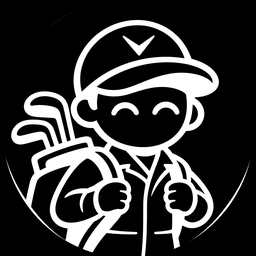
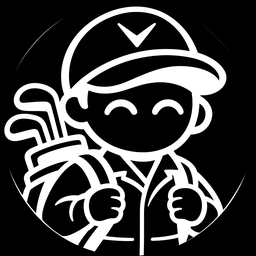
Add files via upload

diff --git a/js/strategy.js b/js/strategy.js
@@ -55,7 +55,7 @@ export function strategyOf(recs, par, geo = {}) {
   // (a hull of a few shots along a strip was a thin sliver); drawn as its outline's points
   // (update 631) round most of the shots (the nearest 85% to their middle), 1.5 yds beyond them, and no wider than it
   // needs to be (at least 0.4 as wide as long): a wide oval spilled into the fairway or rough beside a patch
-  const hullOf = (pts0) => {
+  const hullOf = (pts0, lim = null) => {
     if (!pts0 || pts0.length < 3) return null;
     let pts = pts0; { const cx = mean(pts.map((p) => p[0])), cy = mean(pts.map((p) => p[1])); if (pts.length >= 6) pts = [...pts].sort((p, q) => Math.hypot(p[0] - cx, p[1] - cy) - Math.hypot(q[0] - cx, q[1] - cy)).slice(0, Math.ceil(pts.length * 0.85)); }
     const mx = mean(pts.map((p) => p[0])), my = mean(pts.map((p) => p[1]));
@@ -64,14 +64,17 @@ export function strategyOf(recs, par, geo = {}) {
     let a = Math.max(...pts.map(([x, y]) => Math.abs((x - mx) * ux + (y - my) * uy))) + pad;
     let b = Math.max(...pts.map(([x, y]) => Math.abs((x - mx) * vx + (y - my) * vy))) + pad;
     a = Math.max(a, 5 * PPY); b = Math.max(b, 0.4 * a, 4 * PPY);
+    // (update 655) a tee target (aim, avoid): its radius, either way, between 8 and 15 yds
+    if (lim) { const lo = lim[0] * PPY, hi = lim[1] * PPY; a = Math.min(hi, Math.max(lo, a)); b = Math.min(hi, Math.max(lo, b)); }
     return Array.from({ length: 20 }, (_, k) => { const t = (k / 20) * 2 * Math.PI, ca = Math.cos(t) * a, sb = Math.sin(t) * b; return [Math.round(mx + ca * ux + sb * vx), Math.round(my + ca * uy + sb * vy)]; });
   };
-  const circ = (rs, ptOf, tone) => {
+  const TEE_LIM = [8, 15]; // (update 655: tee targets; 656: the approach miss spots too)
+  const circ = (rs, ptOf, tone, lim = null) => {
     const ps = rs.map(ptOf).filter((q) => q && q[1] != null && q[2] != null); if (ps.length < 3) return null;
     const cx = mean(ps.map((q) => q[1])), cy = mean(ps.map((q) => q[2])), ds = ps.map((q) => Math.hypot(q[1] - cx, q[2] - cy)).sort((a, b) => a - b);
-    const r = Math.max(6 * PPY, Math.min(30 * PPY, ds[Math.floor(0.7 * (ds.length - 1))] || 0));
+    const r = Math.max((lim ? lim[0] : 6) * PPY, Math.min((lim ? lim[1] : 30) * PPY, ds[Math.floor(0.7 * (ds.length - 1))] || 0));
     const inner = ps.filter((q) => Math.hypot(q[1] - cx, q[2] - cy) <= r).map((q) => [q[1], q[2]]); // (most of them: the outliers left out)
-    const h = hullOf(inner);
+    const h = hullOf(inner, lim);
     return h ? [Math.round(cx), Math.round(cy), Math.round(r), tone, h] : [Math.round(cx), Math.round(cy), Math.round(r), tone];
   };
   const apPt = (r) => (r.apIdx != null ? r.qs[r.apIdx + 1] : null);
@@ -98,7 +101,7 @@ export function strategyOf(recs, par, geo = {}) {
     const zones = group(drives.map((d) => ({ ...d.r, _d: d })), (r) => zoneOf(r._d)).sort((a, b) => a.avg - b.avg);
     { const m = new Map();
       for (const d of drives) { const z = zoneOf(d); if (!z || !/fairway$/.test(z) || /bunkers$/.test(z)) continue; const L = Math.round(len(d) / 20) * 20, k = `${z}|${L}`; (m.get(k) || m.set(k, []).get(k)).push(d); }
-      teeOpts = [...m].filter(([, ds]) => ds.length >= OPT_N).map(([k, ds]) => { const [z, L] = k.split("|"); return { z, len: Number(L), n: ds.length, avg: Math.round(mean(ds.map((d) => sc(d.r))) * 1000) / 1000, left: med(ds.map((d) => d.q2[4])), at: circ(ds, (d) => d.q2, "good") }; });
+      teeOpts = [...m].filter(([, ds]) => ds.length >= OPT_N).map(([k, ds]) => { const [z, L] = k.split("|"); return { z, len: Number(L), n: ds.length, avg: Math.round(mean(ds.map((d) => sc(d.r))) * 1000) / 1000, left: med(ds.map((d) => d.q2[4])), at: circ(ds, (d) => d.q2, "good", TEE_LIM) }; });
       if (!teeOpts.length) teeOpts = null; }
     const isFw = (z) => /fairway$/.test(z.k) && !/bunkers$/.test(z.k);
     const tgt = zones.filter(isFw)[0];
@@ -108,12 +111,12 @@ export function strategyOf(recs, par, geo = {}) {
       const bb = bands.length >= 2 && bands[0].avg < tgt.avg ? bands[0] : null;
       // (update 595) just the value of what's recommended (the spot was still picked against every other place)
       const g0 = bb || tgt;
-      items.push({ k: "tee", h: "Aim", t: `Aim for ${tgt.k}${bb ? ` around ${bb.k} yds` : ""} off the tee ${vn(g0.avg, g0.n)}.`, at: [circ(g0.rs, (r) => r._d.q2, "good")].filter(Boolean) });
+      items.push({ k: "tee", h: "Aim", t: `Aim for ${tgt.k}${bb ? ` around ${bb.k} yds` : ""} off the tee ${vn(g0.avg, g0.n)}.`, at: [circ(g0.rs, (r) => r._d.q2, "good", TEE_LIM)].filter(Boolean) });
       for (const z of zones.filter((z) => !isFw(z) && z.avg <= tgt.avg - 0.05).slice(0, 1))
         items.push({ k: "tee", h: "Surprise", t: `Drives finishing in ${z.k} have scored better than the aim ${vn(z.avg, z.n)}.` });
     }
     const worst = zones.at(-1), best = zones[0];
-    if (worst && worst !== tgt && zones.length >= 2 && worst.avg >= best.avg + 0.1) items.push({ k: "tee", h: "Avoid", t: `Stay out of ${worst.k} off the tee ${vn(worst.avg, worst.n)}.`, at: [circ(worst.rs, (r) => r._d.q2, "bad")].filter(Boolean) });
+    if (worst && worst !== tgt && zones.length >= 2 && worst.avg >= best.avg + 0.1) items.push({ k: "tee", h: "Avoid", t: `Stay out of ${worst.k} off the tee ${vn(worst.avg, worst.n)}.`, at: [circ(worst.rs, (r) => r._d.q2, "bad", TEE_LIM)].filter(Boolean) });
   }
 
   // ---- the approach: every result (the green, and each miss's side and lie within 30 yds) against every other ----
@@ -139,6 +142,7 @@ export function strategyOf(recs, par, geo = {}) {
     // (update 617) each spot is a cluster's centre found by moving a circle to the middle of its misses until it stops
     // (the densest place), and judged on every miss of that lie inside it: whole bunkers and patches of rough, not the
     // best- or worst-scoring slice of one (that made a left bunker look worse than a right one that really was worse)
+    let allMiss = missPts.slice();
     const gen = (minN, radii) => {
       const out = [], seen = new Set();
       for (const c of missPts) for (const ry of radii) {
@@ -156,11 +160,17 @@ export function strategyOf(recs, par, geo = {}) {
             for (let i = 0; i < part.length; i++) for (const q of [...left]) if (Math.hypot(q.x - part[i].x, q.y - part[i].y) <= L) { part.push(q); left.delete(q); }
             parts.push(part); }
           mem = parts.sort((a, b) => b.length - a.length)[0]; x = mean(mem.map((p) => p.x)); y = mean(mem.map((p) => p.y)); }
+        // (update 657) the spot IS the circle drawn: its middle where the search settled, its radius the circle's (8 to
+        // 15 yds), and every miss inside it counted, whatever its side (the search above only finds where to put it)
+        mem = allMiss.filter((p) => Math.hypot(p.x - x, p.y - y) <= rr);
+        // (update 658) only the lie in its name: the circle's most common lie (a couple of rough misses in a bunker spot
+        // don't count toward "in a bunker")
+        if (mem.length) { const lc = new Map(); for (const p of mem) lc.set(p.lie, (lc.get(p.lie) || 0) + 1); const top = [...lc].sort((a, b) => b[1] - a[1])[0][0]; mem = mem.filter((p) => p.lie === top); }
         if (mem.length < minN) continue;
         // (update 625) every circle size (not just the first that's big enough), so a tight cluster (the rough left of a
         // green) is a spot of its own rather than swallowed by a bigger one nearby
         const sig = `${c.lie}|${ry}|${Math.round(x / (3 * geo.ppy))}|${Math.round(y / (3 * geo.ppy))}`;
-        if (!seen.has(sig)) { seen.add(sig); out.push({ ry, mem, avg: mean(mem.map((p) => sc(p.r))) }); }
+        if (!seen.has(sig)) { seen.add(sig); out.push({ ry, x, y, mem, avg: mean(mem.map((p) => sc(p.r))) }); }
       }
       return out;
     };
@@ -175,8 +185,9 @@ export function strategyOf(recs, par, geo = {}) {
       for (const p of all) { if ((p.lie !== "rough" && p.lie !== "fairway") || !p.r.bb) continue;
         const nb = all.filter((q) => q !== p && Math.hypot(q.x - p.x, q.y - p.y) <= R);
         if ((nb.length >= 4 && nb.filter((q) => q.lie === "bunker").length / nb.length >= 0.4) || all.some((q) => q.lie === "bunker" && Math.hypot(q.x - p.x, q.y - p.y) <= 2 * geo.ppy)) p.lucky = true; } // (or a bunker miss within 2 yds)
+      allMiss = missPts.slice(); // (update 657: counted in any circle they're inside, just not used to place one)
       for (let i = missPts.length - 1; i >= 0; i--) if (missPts[i].lucky) missPts.splice(i, 1); }
-    const cand = gen(MIN_N, [8, 12, 15, 20]);
+    const cand = gen(MIN_N, [8, 10, 12, 15]); // (update 657: 8 to 15 yds, the sizes a spot can be drawn)
     // its direction: the one most of its misses are in; when none has half, the part nearly all share ("Long" for misses
     // spread over long-left, long and long-right)
     const sideOf = (mem) => {
@@ -187,14 +198,16 @@ export function strategyOf(recs, par, geo = {}) {
       const [pw, pn] = [...part].sort((a, b) => b[1] - a[1])[0];
       return pn >= mem.length * 0.7 ? pw : top;
     };
-    const nameAll = (cs) => cs.map((g) => ({ ...g, k: `${sideOf(g.mem)}|${g.mem[0].lie}`, n: g.mem.length, cx: mean(g.mem.map((p) => p.x)), cy: mean(g.mem.map((p) => p.y)) }));
+    // (update 657) named by the lie most of its misses are in; centred where the circle is drawn
+    const lieMost = (mem) => { const m = new Map(); for (const p of mem) m.set(p.lie, (m.get(p.lie) || 0) + 1); return [...m].sort((a, b) => b[1] - a[1])[0][0]; };
+    const nameAll = (cs) => cs.map((g) => ({ ...g, k: `${sideOf(g.mem)}|${lieMost(g.mem)}`, n: g.mem.length, cx: g.x, cy: g.y }));
     const named = nameAll(cand);
     const apart = (a, b) => { const s0 = new Set(a.mem.map((p) => p.r)); return a.k !== b.k && b.mem.filter((p) => s0.has(p.r)).length < 0.5 * Math.min(a.n, b.n); };
     // (update 618) a place to aim has to be safe to aim at: not a sliver of rough or fairway beside a bunker that only
     // scored well by luck. Within 6 yds of a spot's middle, if a quarter or more of all the misses (any lie) are in a
     // bunker, it can't be the best or second best miss (it can still be the worst)
     const risky = (g) => {
-      if (g.mem[0].lie === "bunker") return false;
+      if (lieMost(g.mem) === "bunker") return false;
       if (g.mem.filter((p) => p.r.bb).length < g.mem.length / 2) return false; // (update 635) beside a bunker is fine; in front of one isn't
       // (update 634) a third or more within 5 yds (was a quarter within 6)
       const R = 5 * geo.ppy, nb = missPts.filter((p) => Math.hypot(p.x - g.cx, p.y - g.cy) <= R);
@@ -208,10 +221,10 @@ export function strategyOf(recs, par, geo = {}) {
     // (update 614) only two spots with MIN_N: the worst miss from a smaller one (5+ misses, up to 20 yds across), a
     // different place that's scored worse than the second best
     if (pick.length === 2) {
-      const w = nameAll(gen(5, [15, 20])).filter((g) => pick.every((x) => apart(x, g)) && g.avg > pick[1].avg).sort((a, b) => b.avg - a.avg)[0];
+      const w = nameAll(gen(5, [12, 15])).filter((g) => pick.every((x) => apart(x, g)) && g.avg > pick[1].avg).sort((a, b) => b.avg - a.avg)[0];
       if (w) pick.push(w);
     }
-    if (pick.length >= 2) spotOrder = pick.map((g) => ({ ...g, lab: lab(g.k), at: (tone) => { const h = hullOf(g.mem.map((p) => [p.x, p.y])); return h ? [Math.round(g.cx), Math.round(g.cy), Math.round(g.ry * geo.ppy), tone, h] : [Math.round(g.cx), Math.round(g.cy), Math.round(g.ry * geo.ppy), tone]; } }));
+    if (pick.length >= 2) spotOrder = pick.map((g) => ({ ...g, lab: lab(g.k), at: (tone) => { const R = g.ry * geo.ppy; return [Math.round(g.cx), Math.round(g.cy), Math.round(R), tone, Array.from({ length: 24 }, (_, k) => [Math.round(g.cx + R * Math.cos(k * Math.PI / 12)), Math.round(g.cy + R * Math.sin(k * Math.PI / 12))])]; } })); // (update 657: the circle itself (as points, so the map scales and turns it like any outline), no oval: what's drawn is what's counted)
   }
   const order = spotOrder || (combos.length >= 2 ? combos.map((g) => ({ ...g, lab: lab(g.k) })) : bySide.length >= 2 ? bySide : null);
     if (order) {
@@ -221,7 +234,7 @@ export function strategyOf(recs, par, geo = {}) {
     { const gg = done.filter((r) => apOut(r) === "green"), mm = done.filter((r) => r.side && !r.fringe);
       if (gg.length && mm.length) { const a = mean(gg.map(sc)), b = mean(mm.map(sc));
         items.push({ k: "miss", h: "Green vs miss", t: `Hitting the green ${vn(a, gg.length)}; missing it within 30 yds ${vn(b, mm.length)}: a miss ${b >= a ? "costs" : "saves"} about ${Math.abs(b - a).toFixed(2)} a hole.` }); } }
-    const atOf = (g, tone) => (g.at ? [g.at(tone)] : [circ(g.rs, apPt, tone)].filter(Boolean)); // (update 610: a spot's own circle)
+    const atOf = (g, tone) => (g.at ? [g.at(tone)] : [circ(g.rs, apPt, tone, TEE_LIM)].filter(Boolean)); // (update 610: a spot's own circle)
     items.push({ k: "miss", h: "Best miss", t: `If you miss the green, miss ${b1.lab}: ${f2(b1.avg)} (${nTxt(b1.n)}).`, at: atOf(b1, "good") });
     // (update 615) only two spots: the other is the worst (red), not a second best
     if (order.length === 2) items.push({ k: "miss", h: "Worst miss", t: `Worst: ${b2.lab} ${vn(b2.avg, b2.n)}.`, at: atOf(b2, "bad") });
@@ -236,8 +249,8 @@ export function strategyOf(recs, par, geo = {}) {
       const few = [...new Map(m.map((r) => [r.side, 0]))].map(([sd]) => { const rs = m.filter((r) => r.side === sd); return { sd, rs, n: rs.length, avg: mean(rs.map(sc)) }; }).filter((x) => x.n >= 3).sort((a, b) => a.avg - b.avg);
       if (few.length >= 2) {
         const b = few[0], w = few.at(-1), nm = (x) => SIDE[x.sd] || x.sd;
-        items.push({ k: "miss", h: "Best miss so far", t: `Too few misses to rank firmly; so far, miss ${nm(b)} ${vn(b.avg, b.n)}.`, at: [circ(b.rs, apPt, "good")].filter(Boolean) });
-        items.push({ k: "miss", h: "Worst miss so far", t: `Worst so far: ${nm(w)} ${vn(w.avg, w.n)}.`, at: [circ(w.rs, apPt, "bad")].filter(Boolean) });
+        items.push({ k: "miss", h: "Best miss so far", t: `Too few misses to rank firmly; so far, miss ${nm(b)} ${vn(b.avg, b.n)}.`, at: [circ(b.rs, apPt, "good", TEE_LIM)].filter(Boolean) });
+        items.push({ k: "miss", h: "Worst miss so far", t: `Worst so far: ${nm(w)} ${vn(w.avg, w.n)}.`, at: [circ(w.rs, apPt, "bad", TEE_LIM)].filter(Boolean) });
       }
     } else items.push({ k: "miss", h: "Too few", t: `Too few approach shots recorded to this pin to read yet (${nTxt(done.length)}).` });
   }

diff --git a/js/courseRaw.js b/js/courseRaw.js
@@ -13,7 +13,7 @@ import { listHeatCourses, resetHeatList } from "./courseHeat.js";
 import { shotColumns, shotAggregator, uploadShotCourses, mapIdFor } from "./courseShots.js";
 
 /** Bumped when the analysis changes: maps built by an older version are offered a rebuild. */
-export const BUILD_VERSION = 635; // (635: a lucky lie or unsafe spot only in front of a bunker (the bunker behind it, farther from the green); 634: lucky lies and unsafe spots by a bunker judged more narrowly; 631: each miss spot one patch (misses within 5 yds of each other); tighter target outlines; 625: spots at every circle size; ranked with small samples pulled toward the average; 619: spots stay on one side of the green; lucky lies by a bunker left out; 618: a best or 2nd best miss must be safe to aim at (not a sliver by a bunker); 617: miss spots from each cluster's centre, judged on all its misses; 616: rounded oval targets; thin strips by a bunker left out; 614: target outlines round the shots; a worst miss from a smaller spot; green vs miss always; 610: miss spots as circles (10-15 yds, re-centred), each with a lie and 8+ samples; 604: surprises against the best fairway miss; directions hyphenated; 602: the fringe found from the green's outline; 601: Cal's Read leaves out misses to the fringe right by the green; 597: Cal's Read tips: just the value and the count, "(3.78, only 9 samples)"; 595: going for it or laying up from the shot itself; Cal's Read tips each with its own header and value; 594: Cal's Read: each fairway spot by distance and each lay-up distance, for a player's own aim; 592: Cal's Read: an approach read for every pin with 3+ samples, and its spots to circle on the map; 590: Cal's Read: every place against every other, and an approach read always; 588: strategy insights for every hole and pin; 561: each pin named from where it sits on the green; 560: each drive miss's side from the fairway beside it; one side empty: the fairway drives farthest apart; 559: the up & down line from the drive misses: the nearer half, the innermost left and right; 558: the up & down line from halfway between where the left and right misses were hit from; 557: the up & down line also from the fairway short of the green; 555: 555: the up & down line from the fairway nearest the green; 537: 537: strokes gained and distances by true_distance; 526: each past shot's true_distance; 512: the distance_range column, each shot's skill; 502: up & down along the line fairway centre → pin; 503: its middle square 40 x 40 ft; 508: each pin's own scoring, values and widths)
+export const BUILD_VERSION = 658; // (658: a miss spot counts only the lie in its name; 657: a miss spot is the circle drawn (8 to 15 yds), counting every miss inside it; 656: approach miss spots 8 to 15 yds too; 655: tee targets (aim, avoid) 8 to 15 yds across each way from the middle; 635: a lucky lie or unsafe spot only in front of a bunker (the bunker behind it, farther from the green); 634: lucky lies and unsafe spots by a bunker judged more narrowly; 631: each miss spot one patch (misses within 5 yds of each other); tighter target outlines; 625: spots at every circle size; ranked with small samples pulled toward the average; 619: spots stay on one side of the green; lucky lies by a bunker left out; 618: a best or 2nd best miss must be safe to aim at (not a sliver by a bunker); 617: miss spots from each cluster's centre, judged on all its misses; 616: rounded oval targets; thin strips by a bunker left out; 614: target outlines round the shots; a worst miss from a smaller spot; green vs miss always; 610: miss spots as circles (10-15 yds, re-centred), each with a lie and 8+ samples; 604: surprises against the best fairway miss; directions hyphenated; 602: the fringe found from the green's outline; 601: Cal's Read leaves out misses to the fringe right by the green; 597: Cal's Read tips: just the value and the count, "(3.78, only 9 samples)"; 595: going for it or laying up from the shot itself; Cal's Read tips each with its own header and value; 594: Cal's Read: each fairway spot by distance and each lay-up distance, for a player's own aim; 592: Cal's Read: an approach read for every pin with 3+ samples, and its spots to circle on the map; 590: Cal's Read: every place against every other, and an approach read always; 588: strategy insights for every hole and pin; 561: each pin named from where it sits on the green; 560: each drive miss's side from the fairway beside it; one side empty: the fairway drives farthest apart; 559: the up & down line from the drive misses: the nearer half, the innermost left and right; 558: the up & down line from halfway between where the left and right misses were hit from; 557: the up & down line also from the fairway short of the green; 555: 555: the up & down line from the fairway nearest the green; 537: 537: strokes gained and distances by true_distance; 526: each past shot's true_distance; 512: the distance_range column, each shot's skill; 502: up & down along the line fairway centre → pin; 503: its middle square 40 x 40 ft; 508: each pin's own scoring, values and widths)
 /** The columns kept, in order (also what course_upload.py sends). */
 export const RAW_COLS = ["year", "courseNum", "course", "player", "playerID", "round", "hole", "par", "pin_id", "lie", "strokes", "shot_for", "hole_out", "x", "y", "scoring_avg", "pin_x", "pin_y", "distance", "tournament", "distance_range", "true_distance"];
 const KEYS = ["year", "courseNum", "course", "player", "playerID", "round", "hole", "par", "pin", "lie", "strokes", "shotFor", "holeOut", "x", "y", "v", "pinX", "pinY", "dist", "event", "skill", "trueDist"];

diff --git a/js/views/home.js b/js/views/home.js
@@ -33,7 +33,7 @@ export async function render(main, { previewClient } = {}) {
   if (calAllowed()) {
     const talk = el("button", { type: "button", class: "hm-orb", "aria-label": "Ask Cal: tap to talk" }, el("span", { "aria-hidden": "true" }));
     // (update 621) Cal himself in the orb (the caddie in a speech bubble, in dark ink), with a small microphone badge: tap to talk
-    talk.firstChild.innerHTML = '<svg class="hm-cal-face" viewBox="0 0 20 20"><mask id="hm-cal-m"><image href="icons/cal.png?v=3" width="20" height="20"/></mask><rect width="20" height="20" fill="#1a1408" mask="url(#hm-cal-m)"/></svg>';
+    talk.firstChild.innerHTML = '<svg class="hm-cal-face" viewBox="0 0 20 20"><mask id="hm-cal-m"><image href="icons/cal.png?v=4" width="20" height="20"/></mask><rect width="20" height="20" fill="#1a1408" mask="url(#hm-cal-m)"/></svg>';
     talk.appendChild(el("span", { class: "hm-orb-mic", "aria-hidden": "true" }));
     talk.lastChild.innerHTML = '<svg viewBox="0 0 24 24"><rect x="9" y="3" width="6" height="11" rx="3" fill="#fff"/><path d="M6 11a6 6 0 0 0 12 0M12 17v4M9 21h6" stroke="#fff" stroke-width="2" fill="none" stroke-linecap="round"/></svg>';
     const open = async (listen) => { const m = await import("../callie.js"); await m.openCallie(); if (listen && !(await import("../listen.js")).isIOS()) setTimeout(() => document.querySelector(".cal-mic:not(.on)")?.click(), 150); };

diff --git a/index.html b/index.html
@@ -5,7 +5,7 @@
 <meta name="viewport" content="width=device-width, initial-scale=1, viewport-fit=cover">
 <!-- (update 267) Add to Home Screen: opens as its own app, full screen, with no Safari address bar -->
 <link rel="manifest" href="manifest.webmanifest">
-<link rel="apple-touch-icon" href="icons/apple-touch-icon.png?v=654">
+<link rel="apple-touch-icon" href="icons/apple-touch-icon.png?v=658">
 <meta name="apple-mobile-web-app-capable" content="yes">
 <meta name="mobile-web-app-capable" content="yes">
 <meta name="apple-mobile-web-app-status-bar-style" content="black-translucent">
@@ -25,11 +25,11 @@
 <link rel="preconnect" href="https://fonts.googleapis.com">
 <link rel="preconnect" href="https://fonts.gstatic.com" crossorigin>
 <link rel="stylesheet" href="https://fonts.googleapis.com/css2?family=Inter:wght@200;300;400;500;600;700&display=swap">
-<link rel="stylesheet" href="css/style.css?v=654">
+<link rel="stylesheet" href="css/style.css?v=658">
 <script src="config.js"></script>
 </head>
 <body>
 <div id="app"><p class="boot-msg ta-loading">Loading&hellip;</p></div>
-<script type="module" src="js/main.js?v=654"></script>
+<script type="module" src="js/main.js?v=658"></script>
 </body>
 </html>

diff --git a/js/ui.js b/js/ui.js
@@ -74,7 +74,7 @@ export function icon(name) {
   if (name === "robot" || name === "calface") { // (update 624: calface: Cal without his speech bubble, for the header's coin)
     const ns = "http://www.w3.org/2000/svg", id = `callie-m${++robotN}`;
     const mask = document.createElementNS(ns, "mask"); mask.setAttribute("id", id);
-    const img = document.createElementNS(ns, "image"); img.setAttribute("href", name === "calface" ? "icons/cal-face.png?v=4" : "icons/cal.png?v=3"); /* (update 620: Cal, the caddie in a speech bubble) */ img.setAttribute("width", "20"); img.setAttribute("height", "20");
+    const img = document.createElementNS(ns, "image"); img.setAttribute("href", name === "calface" ? "icons/cal-face.png?v=5" : "icons/cal.png?v=4"); /* (update 620: Cal, the caddie in a speech bubble) */ img.setAttribute("width", "20"); img.setAttribute("height", "20");
     mask.appendChild(img);
     const rect = document.createElementNS(ns, "rect"); rect.setAttribute("width", "20"); rect.setAttribute("height", "20"); rect.setAttribute("fill", "currentColor"); rect.setAttribute("mask", `url(#${id})`);
     svg.append(mask, rect); svg.classList.add("ico-callie");

diff --git a/sw.js b/sw.js
@@ -1,7 +1,7 @@
 // Offline: keeps a copy of the app itself so it opens with no signal (Data Entry on the course).
 // The page and the app's files: fresh when online, the saved copy when not. The Firebase libraries
 // (versioned, never change): the saved copy first. Data goes through Firebase, not here.
-const CACHE = "tour-analytics-v654";
+const CACHE = "tour-analytics-v658";
 self.addEventListener("install", (e) => { self.skipWaiting(); e.waitUntil(caches.open(CACHE).then((c) => c.addAll(["./", "./index.html", "./css/style.css", "./config.js"]).catch(() => {}))); });
 self.addEventListener("activate", (e) => e.waitUntil(caches.keys().then((ks) => Promise.all(ks.filter((k) => k !== CACHE).map((k) => caches.delete(k)))).then(() => self.clients.claim())));
 self.addEventListener("fetch", (e) => {
